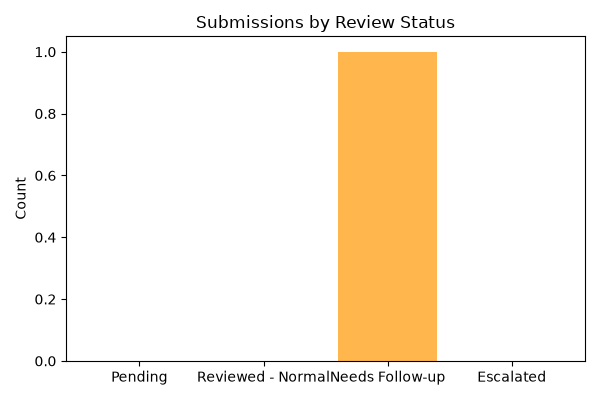
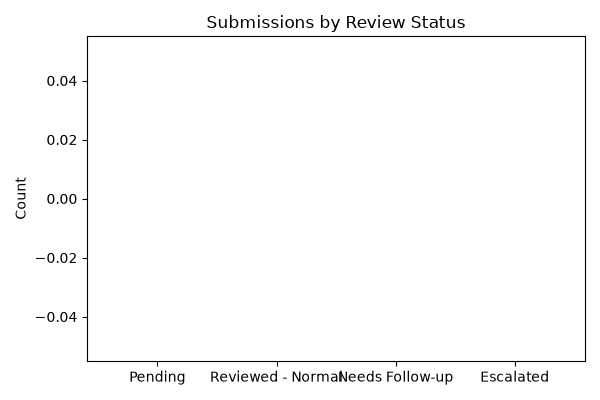
Clinic care class diagram, user guide and testing log. Fix to clinicians seeing all submissions even if they didn't assign them

diff --git a/clinic-care-lite/app.py b/clinic-care-lite/app.py
@@ -51,7 +51,14 @@ def dashboard():
     role = session['role']
     if role == 'clinician':
         with open('data/task_submissions.json', 'r') as f:
-            submissions = json.load(f)
+            all_subs = json.load(f)
+        with open('data/health_tasks.json', 'r') as f:
+            all_tasks = json.load(f)
+        submissions = {
+            sid: s for sid, s in all_subs.items()
+            if s['task_id'] in all_tasks
+            and all_tasks[s['task_id']]['clinic_id'] == session['user_id']
+        }
         pending_count = sum(1 for s in submissions.values() if s['review_status'] == 'Pending')
         statuses = ['Pending', 'Reviewed - Normal', 'Needs Follow-up', 'Escalated']
         counts = [sum(1 for s in submissions.values() if s['review_status'] == st) for st in statuses]

diff --git a/README.md b/README.md
@@ -1,2 +1,44 @@
 # CS112-Final-Project
 Shared repository for the National Electricity Grid Network Analysis, GridCare-Lite Development, and ClinicCare-Lite Development
+
+# Repository Link
+https://github.com/MikunNo1/CS112-Final-Project.git
+
+# Group 13 cohort B
+## Team Members
+Sheryl Angel Oluwatumininu Aisida 30062029
+Abubakari Awal
+Jeremy Dante Hoese Gikunoo
+Chukwufumnaya Chioma Omo
+Christopher Ekow Sekyi
+
+# Grid Analysis
+
+# GridCare-Lite
+
+# ClinicCare-Lite
+ClinicCare Lite is a Clinic management system that enables physicians to assign tasks to their patients and request submissions. It also enables the patients to see tasks assigned to them and submit the required documents, while ensuring documents submitted meet the file type requirements. It enables Clinicians to review submission, classify them and add notes and patients to see the status of their submissions.
+
+### SETUP INSTRUCTIONS
+1. Create and activate a virtual environment:
+   - Windows: `python -m venv venv` then `venv\Scripts\Activate.ps1`
+   - Mac/Linux: `python3 -m venv venv` then `source venv/bin/activate`
+2. Install required modules: `pip install -r requirements.txt`
+3. From inside the clinic care folder, run python app.py in terminal, to run the program
+4. Open http://127.0.0.1:5000 in your browser
+
+### DEMO CREDENTIALS
+- **Clinician** — ID `30010000`, password `Doctor@2000` (Yam Abu)
+- **Patient** — ID `30012026`, password `Test@1234` (Tain Plan)
+
+You may also register new accounts. 
+Using the URL : http://127.0.0.1:5000/register
+ID rules: clinician IDs are 8 digits ending
+in `0000`; patient IDs are 8 digits ending in a year between 2022 and 2028.
+Passwords require at least 8 characters with an uppercase letter, a lowercase
+letter, a digit, and a special character.
+
+### Limitations and Constraints
+-Message class was created and programmed, however it has not been integrated into the user interface. Notifications on pending tasks and assigned tasks are included on the clinician and patient dashboard to fulfill a basic verison of the messaging and notification requirement.
+- Clinic class has been created and is ready for future implementation. However for this MVP, to enable the system function properly the clinician ID doubles as the clinic ID and clinic specific functionality has not been integrated into the entire sytem yet.
+- This system was designed to be administrative and does not diagnose patients or suggest treatments.
